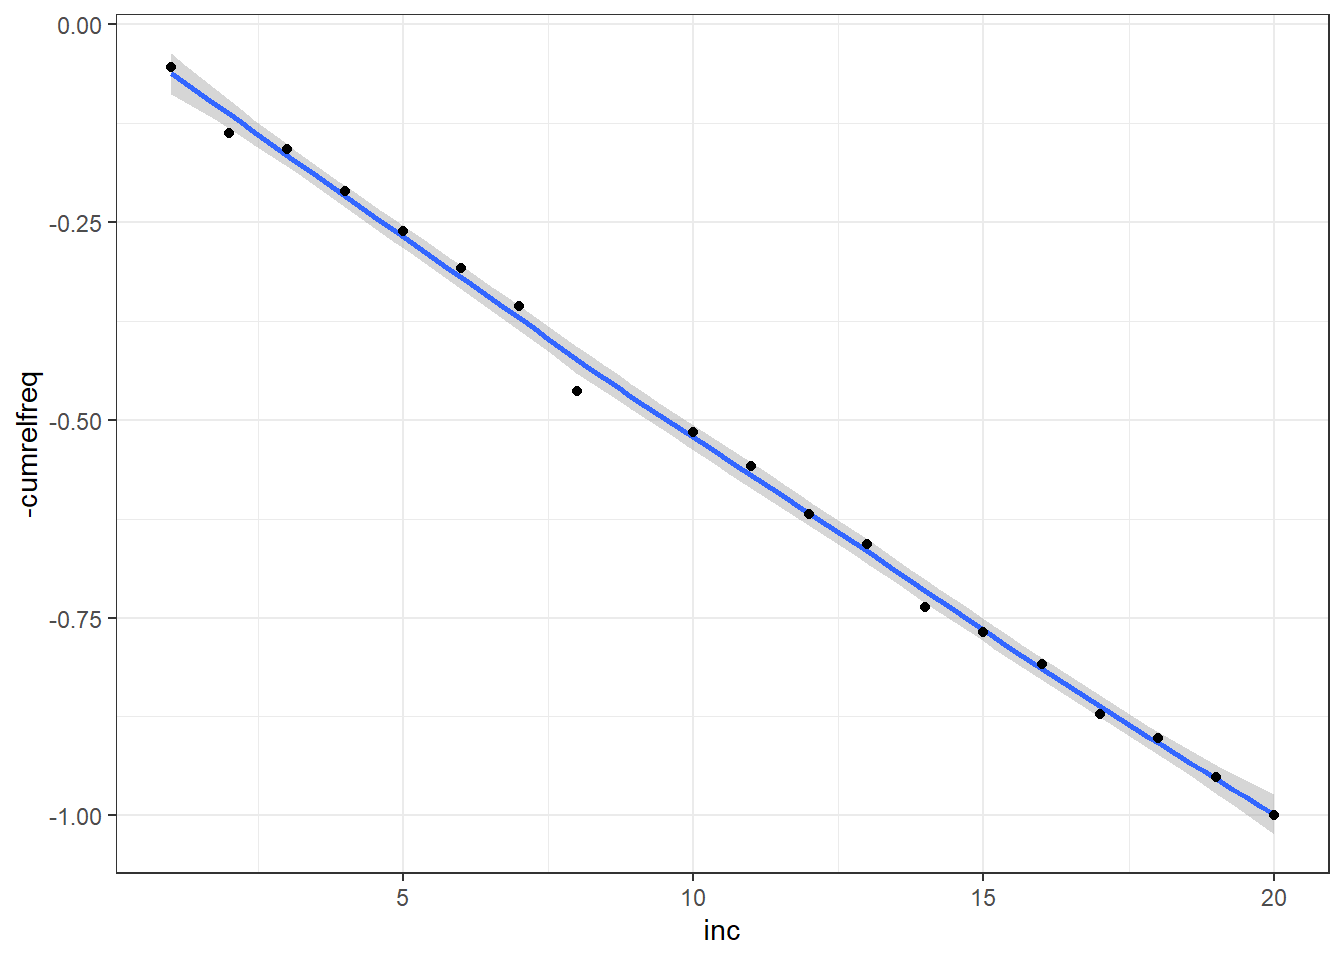
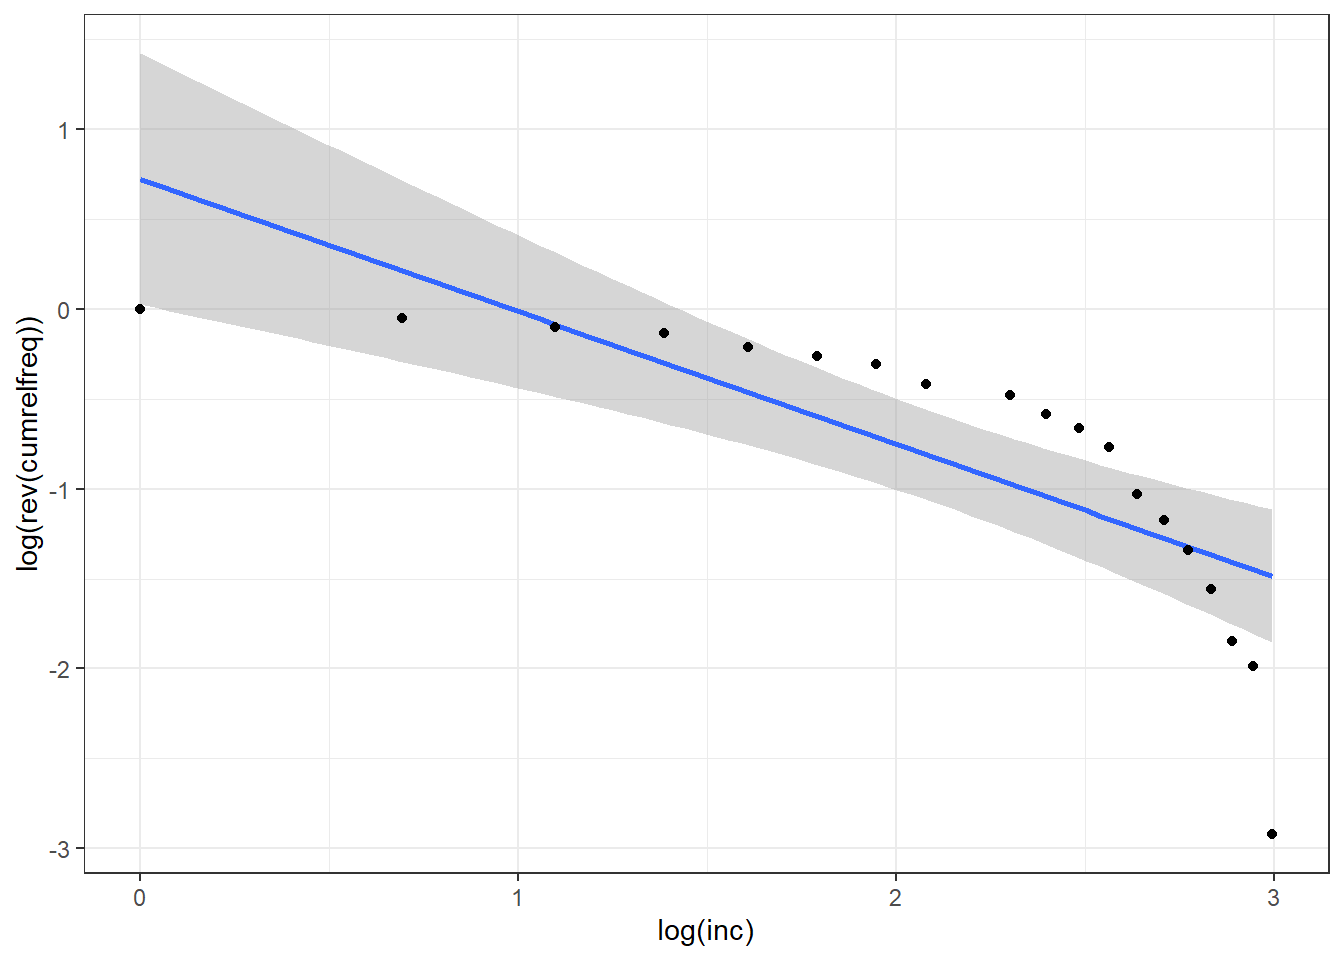
correcting pareto curve

diff --git a/docs/posts/Techinal notes of political cleavages and inequality/technical note piketty 2021.html b/docs/posts/Techinal notes of political cleavages and inequality/technical note piketty 2021.html
@@ -308,23 +308,24 @@ p(0 \leq x \leq 0.1) = p(x \leq 0.1) = \frac{0.1-0.0538}{0.137-0.0538} =  0.555
 </div>
 </div>
 <p>This would be tedious to go all the way up to the tenth decile. There is to my knowledge no function in R that will do this automatically and Piketty and his team use Stata so I can’t take their code here. Indeed, a R function that would compute the correct relative frequencies for each decile from whatever income bracket would be really useful. But since I will perhaps go back to this in the future, let’s see what can be done further with those income brackets.</p>
-<p>I will finish this post by trying to plot a “Pareto line”, that is, to plot the relationship <span class="math inline">\(log(N) = A - log(x)\)</span> with N the number of individuals earning more than income level x. This can be done simply by plotting on the y axis the inverse of the relative cumulative distribution function and the income brackets on the x axis.</p>
+<p>I will finish this post by trying to plot a “Pareto line”, that is, to plot the relationship <span class="math inline">\(log(N) = A - log(x)\)</span> with N the number of individuals earning more than income level x. This can be done simply by plotting on the y axis the inverse of the relative cumulative distribution function and the log of income brackets on the x axis.</p>
 <div class="cell">
 <div class="sourceCode cell-code" id="cb18"><pre class="sourceCode r code-with-copy"><code class="sourceCode r"><span id="cb18-1"><a href="#cb18-1" aria-hidden="true" tabindex="-1"></a>income <span class="sc">%&gt;%</span> </span>
 <span id="cb18-2"><a href="#cb18-2" aria-hidden="true" tabindex="-1"></a>  <span class="fu">ggplot</span>()<span class="sc">+</span></span>
-<span id="cb18-3"><a href="#cb18-3" aria-hidden="true" tabindex="-1"></a>  <span class="fu">aes</span>(<span class="at">x =</span> inc, <span class="at">y =</span> <span class="sc">-</span>cumrelfreq)<span class="sc">+</span></span>
-<span id="cb18-4"><a href="#cb18-4" aria-hidden="true" tabindex="-1"></a>  <span class="fu">geom_smooth</span>()<span class="sc">+</span></span>
+<span id="cb18-3"><a href="#cb18-3" aria-hidden="true" tabindex="-1"></a>  <span class="fu">aes</span>(<span class="at">x =</span> <span class="fu">log</span>(inc), <span class="at">y =</span> <span class="fu">log</span>(<span class="fu">rev</span>(cumrelfreq)))<span class="sc">+</span> <span class="co">#rev() to reverse the values to get the inverse of the relative cdf</span></span>
+<span id="cb18-4"><a href="#cb18-4" aria-hidden="true" tabindex="-1"></a>  <span class="fu">geom_smooth</span>(<span class="at">method =</span> <span class="st">"lm"</span>)<span class="sc">+</span></span>
 <span id="cb18-5"><a href="#cb18-5" aria-hidden="true" tabindex="-1"></a>  <span class="fu">geom_point</span>()<span class="sc">+</span></span>
 <span id="cb18-6"><a href="#cb18-6" aria-hidden="true" tabindex="-1"></a>  <span class="fu">theme_bw</span>()</span></code><button title="Copy to Clipboard" class="code-copy-button"><i class="bi"></i></button></pre></div>
 <div class="cell-output-display">
 <p><img src="technical-note-piketty-2021_files/figure-html/unnamed-chunk-11-1.png" class="img-fluid" width="672"></p>
 </div>
-<div class="sourceCode cell-code" id="cb19"><pre class="sourceCode r code-with-copy"><code class="sourceCode r"><span id="cb19-1"><a href="#cb19-1" aria-hidden="true" tabindex="-1"></a><span class="fu">coef</span>(<span class="fu">lm</span>(<span class="at">data =</span> income, <span class="sc">-</span>cumrelfreq <span class="sc">~</span> inc))</span></code><button title="Copy to Clipboard" class="code-copy-button"><i class="bi"></i></button></pre></div>
+<div class="sourceCode cell-code" id="cb19"><pre class="sourceCode r code-with-copy"><code class="sourceCode r"><span id="cb19-1"><a href="#cb19-1" aria-hidden="true" tabindex="-1"></a><span class="fu">coef</span>(<span class="fu">lm</span>(<span class="at">data =</span> income, <span class="fu">log</span>(<span class="fu">rev</span>(cumrelfreq)) <span class="sc">~</span> <span class="fu">log</span>(inc)))</span></code><button title="Copy to Clipboard" class="code-copy-button"><i class="bi"></i></button></pre></div>
 <div class="cell-output cell-output-stdout">
-<pre><code>(Intercept)         inc 
--0.02018872 -0.04952872 </code></pre>
+<pre><code>(Intercept)    log(inc) 
+  0.7227530  -0.7369497 </code></pre>
 </div>
 </div>
+<p>We can see that the Pareto line does not fit the data very well, it would fit better only if the line was drawn for the top of the distribution</p>
 
 
 </section>

diff --git a/docs/index.html b/docs/index.html
@@ -259,7 +259,7 @@ Sugar, Cochineal and power
 <a href="./posts/Sugar, Cochineal and Power/sugar cochineal power.html"> </a>
 </div>
 </div>
-<div class="quarto-post image-right" data-index="4" data-listing-file-modified-sort="1680889312910" data-listing-reading-time-sort="4.51">
+<div class="quarto-post image-right" data-index="4" data-listing-file-modified-sort="1680895256026" data-listing-reading-time-sort="4.74">
 <div class="thumbnail">
 <a href="./posts/Techinal notes of political cleavages and inequality/technical note piketty 2021.html">
 <div class="thumbnail-image">
